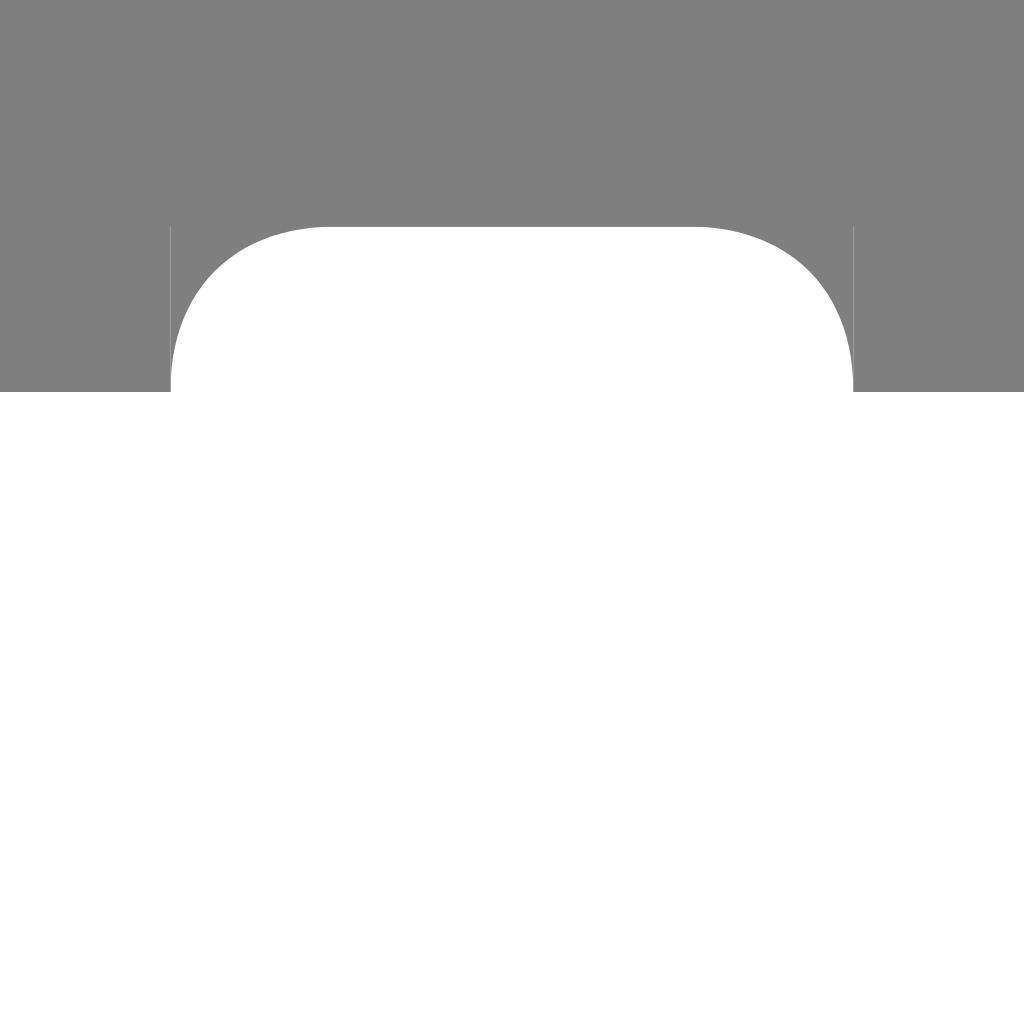
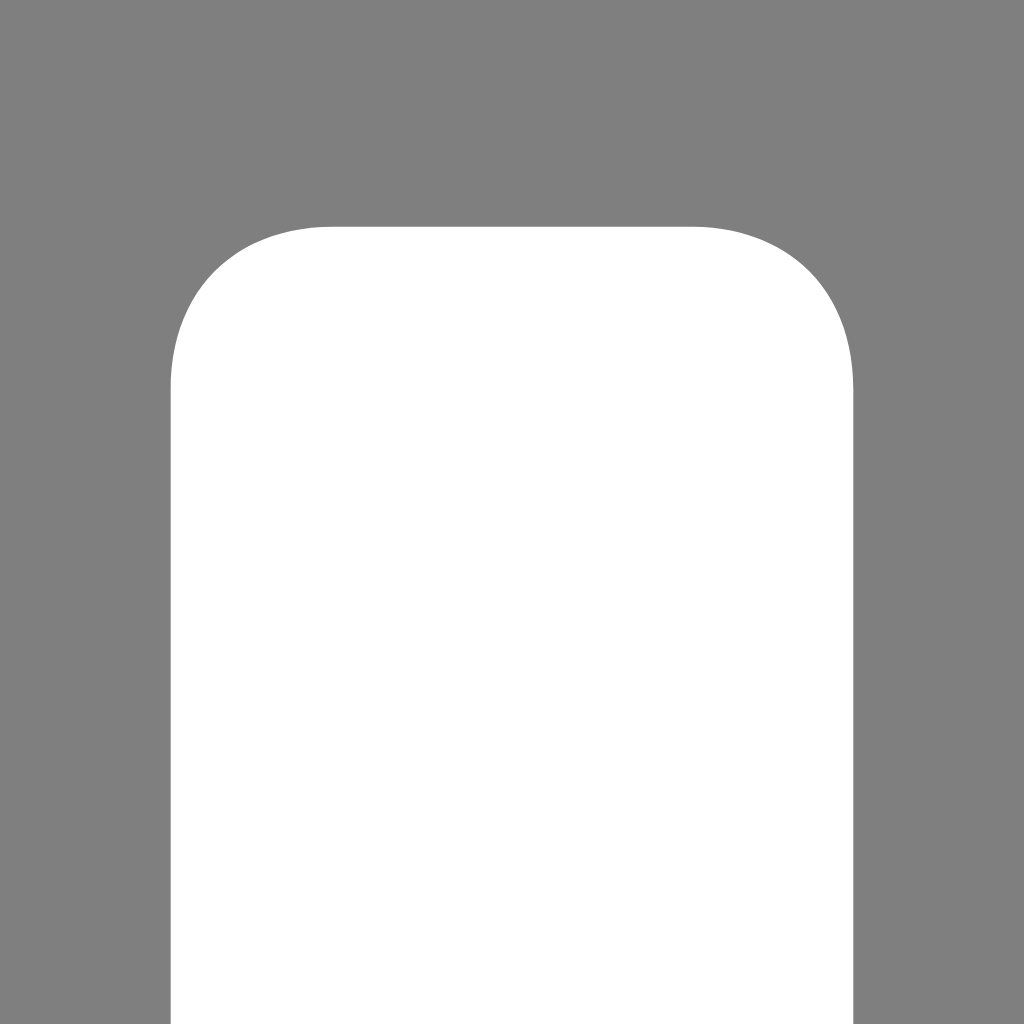
Draw the Android band as one path, run out to the canvas
Two things on the foreground layer, both in the margin the launcher crops.

A pale hairline ran down each side of the icon, at the exact edge of the
visible square. The margin was filled with rectangles butted against the
clipped drawing, and two shapes meeting on a line that falls between pixels
each take a part of that pixel and composite to less than one: 0.67 and 0.33
of coverage came back as 0.78, so 128 of alpha came back as 100. That line is
where a circular mask touches the square, which is the one place in the margin
that is not always cropped.

The band is one path now, with its own outer edges moved out to the canvas
rather than a second shape beside it. There is no seam left to show, and the
drawing inside the square is untouched: icon.png, icon-dark.png,
icon-tinted.png, play-icon.png, favicon.png, feature-graphic.png and splash.png
all come out byte identical, and android-icon-foreground.png is the only file
that changes.

The sides also run to the bottom of the canvas now, past the y = 214 the
drawing stops at. A drawing can end; a layer a launcher slides and scales
cannot, and a side that stopped two fifths of the way down showed its own cut
end travelling through the mask on every touch. Nothing of this is visible at
rest, since a mask keeps the inner 72 and never reaches the margin.

npm run typecheck, lint, format:check, verify and brand:check all green.

Claude-Session: https://claude.ai/code/session_01Fy63BVZvChMqLw4WZEXsky

Changed region(s): [[0.8125, 0.375, 1.0, 1.0], [0.0, 0.375, 0.1875, 1.0]]

diff --git a/docs/icon.md b/docs/icon.md
@@ -98,8 +98,18 @@ proportions the icon has on iOS. There is no second recipe left to forget.
 Nothing new is invented in that margin, and nothing stops at the edge of the
 visible square either, because a launcher can slide the layers apart and would
 show the ends: the gradient runs on in the colour the ramp would have reached,
-the guides keep going at the same spacing, the band runs off both sides at the
-depth it has where the square cuts it.
+the guides keep going at the same spacing, and the band runs off all four sides
+of the canvas.
+
+The band runs off them as one path, its own outer edges moved out, rather than
+as rectangles butted against the drawing. Two shapes that meet on a line falling
+between pixels each take a part of that pixel and composite to less than one,
+and the line here is the edge of the visible square, which is exactly where a
+circular mask touches it: the seam read as a pale hairline down both sides of
+the round icon. One path is also what lets the sides run past the depth the
+drawing stops at. A drawing can end; a layer a launcher slides and scales
+cannot, and a side that stopped two fifths of the way down the canvas would show
+its own cut end travelling through the mask.
 
 The band is deliberately not in the monochrome layer. A themed icon is cut from
 that layer's alpha and repainted in one colour of the system's choosing, so half
